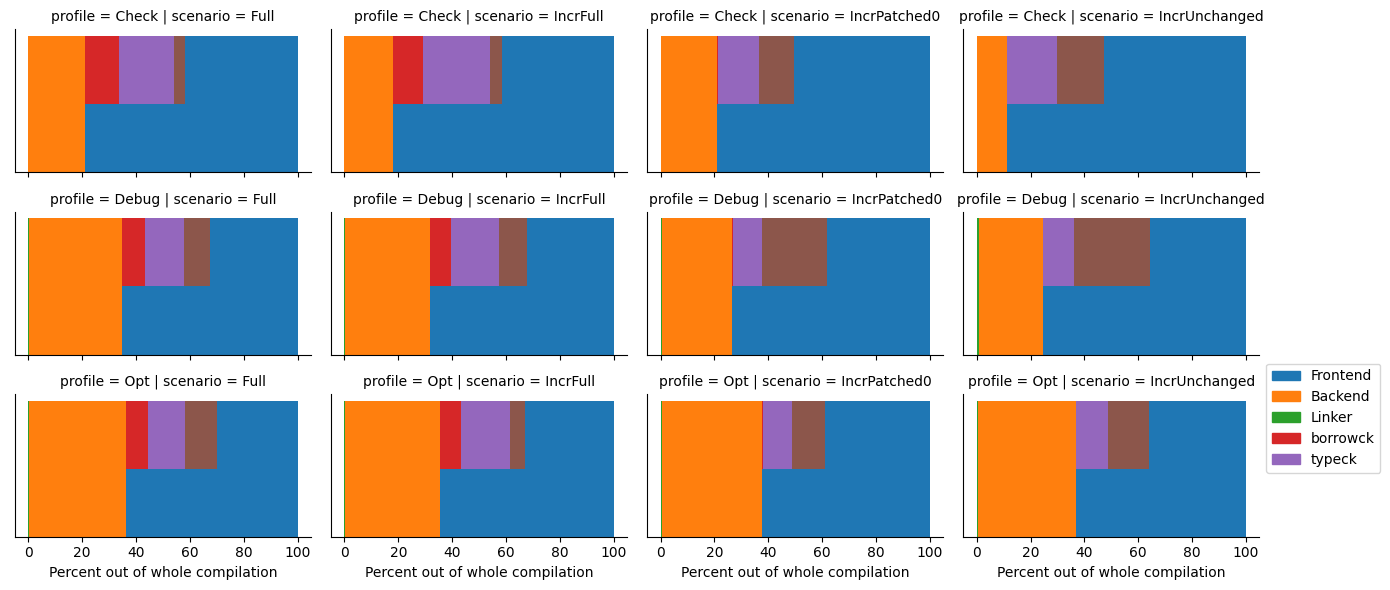
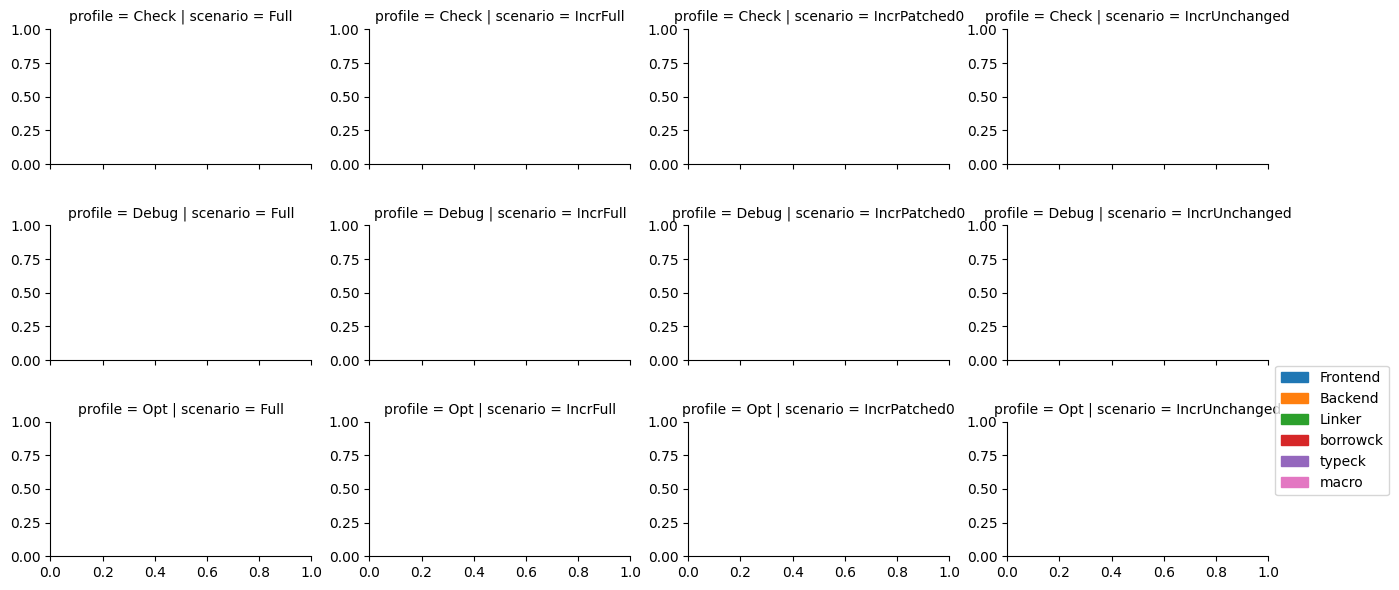
WIP

diff --git a/analysis/src/main.rs b/analysis/src/main.rs
@@ -66,6 +66,18 @@ fn compute_compilation_sections(profile: &ProfilingData) -> Vec<CompilationSecti
         if first_event_start.is_none() {
             first_event_start = event.payload.timestamp().map(|t| t.start());
         }
+        if event.label == "macro_expand_crate" {
+            sections.push(CompilationSection {
+                name: "macro".to_string(),
+                value: event
+                    .payload
+                    .timestamp()
+                    .map(|t| t.end().duration_since(t.start()))
+                    .unwrap()
+                    .unwrap()
+                    .as_nanos() as u64,
+            });
+        }
         if event.label == "type_check_crate" {
             sections.push(CompilationSection {
                 name: "typeck".to_string(),
@@ -146,6 +158,7 @@ struct BenchResult {
     frontend: u64,
     backend: u64,
     linker: u64,
+    macro_expand: u64,
     typeck: u64,
     borrowck: u64,
     metadata: u64,
@@ -205,20 +218,20 @@ fn run_benchmark(
     let diff = diff.replace(patched_path.to_str().unwrap(), &format!("/{relative_path}"));
     std::fs::write(&patch_file, &diff)?;
 
-    let status = Command::new("./target/release/collector")
-        .current_dir(root_dir)
-        .arg("profile_local")
-        .arg("self-profile")
-        .arg("/home/kobzol/.rustup/toolchains/nightly-x86_64-unknown-linux-gnu/bin/rustc")
-        .arg("--include")
-        .arg(name)
-        .status()?;
-    if !status.success() {
-        return Err(anyhow::anyhow!(
-            "Failed to benchmark {name}: {}",
-            status.code().unwrap_or(-1)
-        ));
-    }
+    // let status = Command::new("./target/release/collector")
+    //     .current_dir(root_dir)
+    //     .arg("profile_local")
+    //     .arg("self-profile")
+    //     .arg("/home/kobzol/.rustup/toolchains/nightly-x86_64-unknown-linux-gnu/bin/rustc")
+    //     .arg("--include")
+    //     .arg(name)
+    //     .status()?;
+    // if !status.success() {
+    //     return Err(anyhow::anyhow!(
+    //         "Failed to benchmark {name}: {}",
+    //         status.code().unwrap_or(-1)
+    //     ));
+    // }
 
     for dir in std::fs::read_dir(result_dir)?
         .filter_map(|e| e.ok())
@@ -267,6 +280,11 @@ fn run_benchmark(
                 .find(|s| s.name == "Linker")
                 .map(|s| s.value)
                 .ok_or_else(|| anyhow::anyhow!("Could not find linker"))?,
+            macro_expand: sections
+                .iter()
+                .find(|s| s.name == "macro")
+                .map(|s| s.value)
+                .unwrap_or(0),
             typeck: sections
                 .iter()
                 .find(|s| s.name == "typeck")
@@ -292,7 +310,7 @@ fn save_results(results: &[BenchResult]) -> anyhow::Result<()> {
     let mut file = BufWriter::new(File::create("results.csv")?);
     writeln!(
         file,
-        "benchmark,kind,profile,scenario,frontend,backend,linker,borrowck,typeck,metadata"
+        "benchmark,kind,profile,scenario,frontend,backend,linker,macro,borrowck,typeck,metadata"
     )?;
     for result in results {
         let BenchResult {
@@ -304,12 +322,13 @@ fn save_results(results: &[BenchResult]) -> anyhow::Result<()> {
             backend,
             linker,
             typeck,
+            macro_expand,
             borrowck,
             metadata,
         } = result;
         writeln!(
             file,
-            "{benchmark},{kind},{profile},{scenario},{frontend},{backend},{linker},{borrowck},{typeck},{metadata}"
+            "{benchmark},{kind},{profile},{scenario},{frontend},{backend},{linker},{macro_expand},{borrowck},{typeck},{metadata}"
         )?;
     }
     Ok(())
@@ -323,7 +342,7 @@ fn main() -> anyhow::Result<()> {
     benchmarks.sort();
     benchmarks.retain(|b| {
         let name = b.file_name().unwrap().to_str().unwrap();
-        name.contains("diesel")
+        name.contains("actix")
         // name.contains("du-dust") || name.contains("hyperfine")
         // name.contains("bat")
         //     || name.contains("fd-find")
@@ -335,9 +354,9 @@ fn main() -> anyhow::Result<()> {
 
     let mut results: Vec<BenchResult> = vec![];
     for benchmark in benchmarks.iter().progress() {
-        if result_dir.is_dir() {
-            std::fs::remove_dir_all(&result_dir)?;
-        }
+        // if result_dir.is_dir() {
+        //     std::fs::remove_dir_all(&result_dir)?;
+        // }
         if let Err(error) = run_benchmark(&benchmark, &root_dir, &result_dir, &mut results) {
             println!("{} has failed: {error:?}", benchmark.display());
         }

diff --git a/analysis/analyse.py b/analysis/analyse.py
@@ -34,7 +34,8 @@ def plot_bar(data: pd.DataFrame, profile: Optional[str] = None, scenario: Option
              kind: Optional[str] = None, **kwargs):
     data = filter_data(data=data, profile=profile, scenario=scenario, kind=kind)
     data = pd.melt(data, id_vars=["profile", "scenario", "kind"],
-                   value_vars=["frontend", "backend", "linker", "borrowck", "typeck", "metadata"],
+                   value_vars=["frontend", "backend", "linker", "macro", "borrowck", "typeck",
+                               "metadata"],
                    var_name="section",
                    value_name="Percent")
 
@@ -43,6 +44,7 @@ def plot_bar(data: pd.DataFrame, profile: Optional[str] = None, scenario: Option
     avg_borrowck = float(data[data["section"] == "borrowck"]["Percent"].mean())
     avg_typeck = float(data[data["section"] == "typeck"]["Percent"].mean())
     avg_metadata = float(data[data["section"] == "metadata"]["Percent"].mean())
+    avg_macro = float(data[data["section"] == "macro"]["Percent"].mean())
     fe_base = avg_backend + avg_linker
 
     args = dict(align="edge")
@@ -60,6 +62,9 @@ def plot_bar(data: pd.DataFrame, profile: Optional[str] = None, scenario: Option
     fe_base += avg_typeck
     plt.bar(y=y_offset, x=[fe_base], width=[avg_metadata], color=PALETTE[5],
             height=inner_height, **args)
+    fe_base += avg_metadata
+    plt.bar(y=y_offset, x=[fe_base], width=[avg_macro], color=PALETTE[6],
+            height=inner_height, **args)
     plt.bar(y=0, x=[avg_linker], width=[avg_backend], color=PALETTE[1], height=height, **args)
     plt.bar(y=0, x=[0], width=[avg_linker], color=PALETTE[2], height=height, **args)
     plt.gca().yaxis.set_major_locator(plt.NullLocator())
@@ -73,6 +78,7 @@ def create_bars(with_metadata: bool = True) -> List[mpatches.Patch]:
         mpatches.Patch(color=PALETTE[2], label="Linker"),
         mpatches.Patch(color=PALETTE[3], label="borrowck"),
         mpatches.Patch(color=PALETTE[4], label="typeck"),
+        mpatches.Patch(color=PALETTE[6], label="macro"),
     ]
     if with_metadata:
         bars.append(
@@ -128,17 +134,18 @@ def single_benchmark(df: pd.DataFrame, benchmark: str, metadata: bool = False):
                  scenario="IncrPatched0", metadata=True)
 
 
-df = pd.read_csv("results-full.csv")
+df = pd.read_csv("results.csv")
 print(df.groupby(["benchmark", "kind"]).size().reset_index()["kind"].value_counts())
 
 df["total"] = df["frontend"] + df["backend"] + df["linker"]
-for key in ("frontend", "backend", "linker", "borrowck", "typeck", "metadata"):
+for key in ("frontend", "backend", "linker", "macro", "borrowck", "typeck", "metadata"):
     df[key] = (df[key].astype(np.float32) / df["total"]) * 100
 df = df.drop(columns=["total"])
 
-single_benchmark(df, "ripgrep-14.1.0")
-single_benchmark(df, "regex-automata-0.4.6", metadata=True)
-single_benchmark(df, "diesel-1.4.8", metadata=True)
+# single_benchmark(df, "ripgrep-14.1.0")
+# single_benchmark(df, "regex-automata-0.4.6", metadata=True)
+# single_benchmark(df, "diesel-1.4.8", metadata=True)
+single_benchmark(df, "actix-web-todo-app")
 
 grid(df, "ripgrep", "ripgrep-14.1.0")
 grid(df, "binaries", kind="bin")

diff --git a/collector/src/compile/execute/mod.rs b/collector/src/compile/execute/mod.rs
@@ -265,6 +265,8 @@ impl<'a> CargoProcess<'a> {
                 cmd.arg("-Zunstable-options");
                 cmd.arg("-Ztimings");
             }
+            cmd.arg("--bin");
+            cmd.arg("actix-web-todo-app");
             cmd.arg("--");
 
             match self.backend {